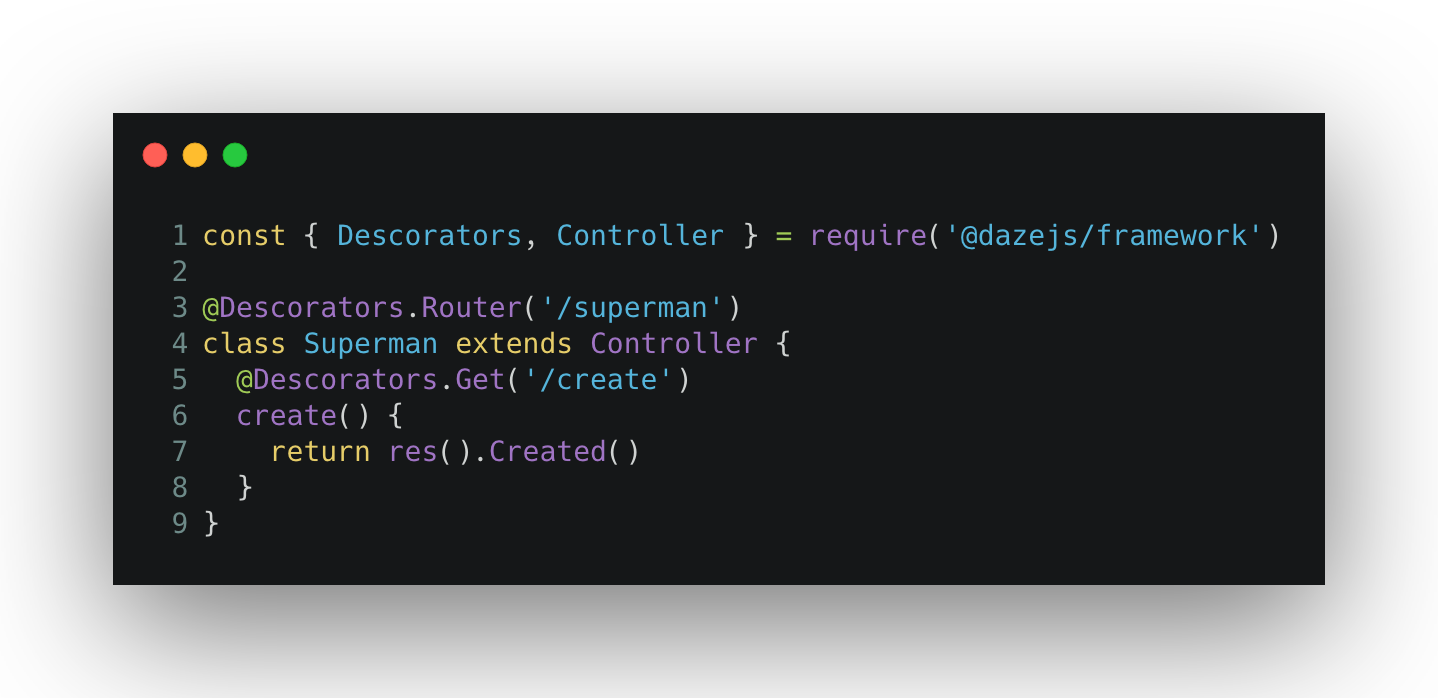
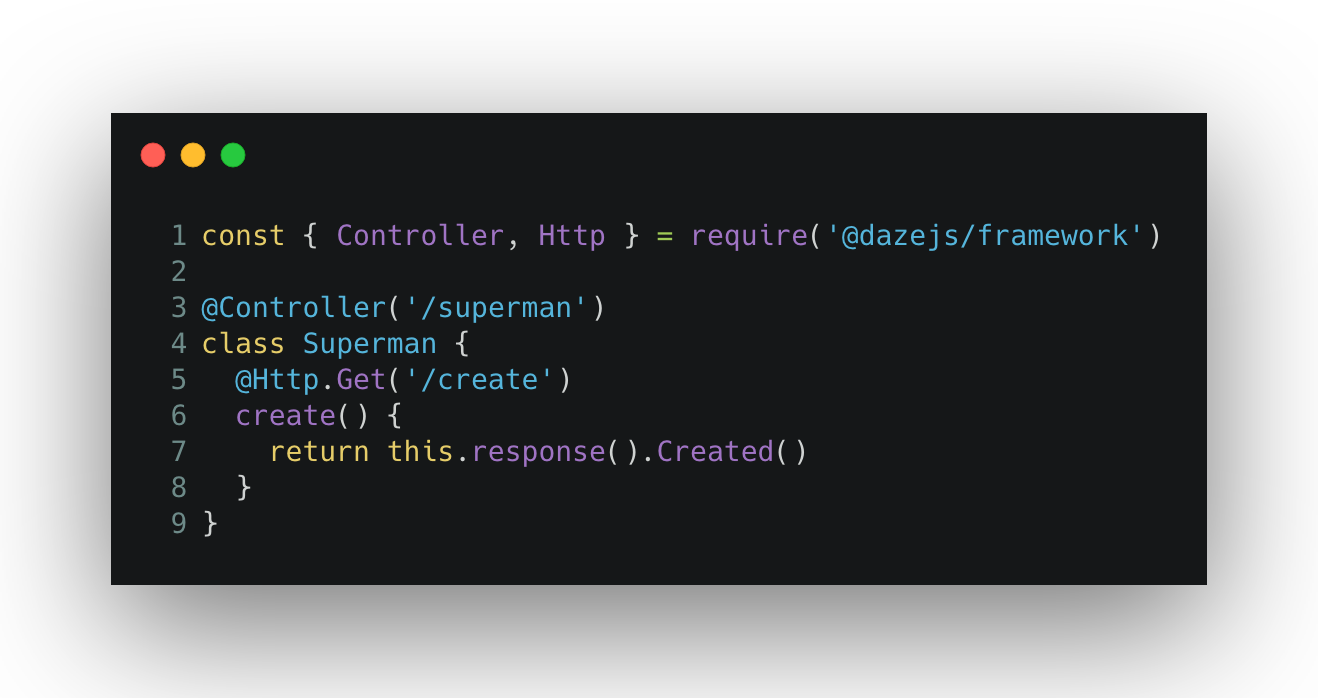
update style png

diff --git a/docs/README.md b/docs/README.md
@@ -26,13 +26,13 @@ $ npm start
 
 ### Make the best development experience possible
 ```js
-const { Descorators, Controller } = require('@dazejs/framework')
+const { Controller, Http } = require('@dazejs/framework')
 
-@Descorators.Router('/superman')
-class Superman extends Controller {
-  @Descorators.Get('/create')
+@Controller('/superman')
+class Superman {
+  @Http.Get('/create')
   create() {
-    return res().Created()
+    return this.response().Created()
   }
 }
 ```
